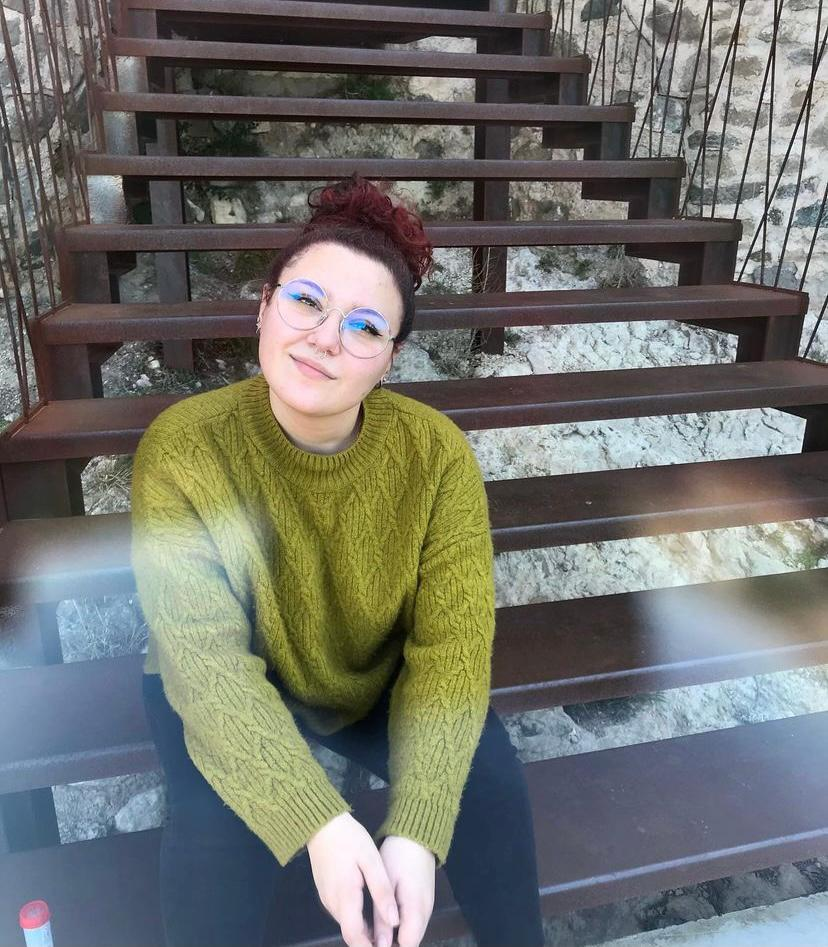
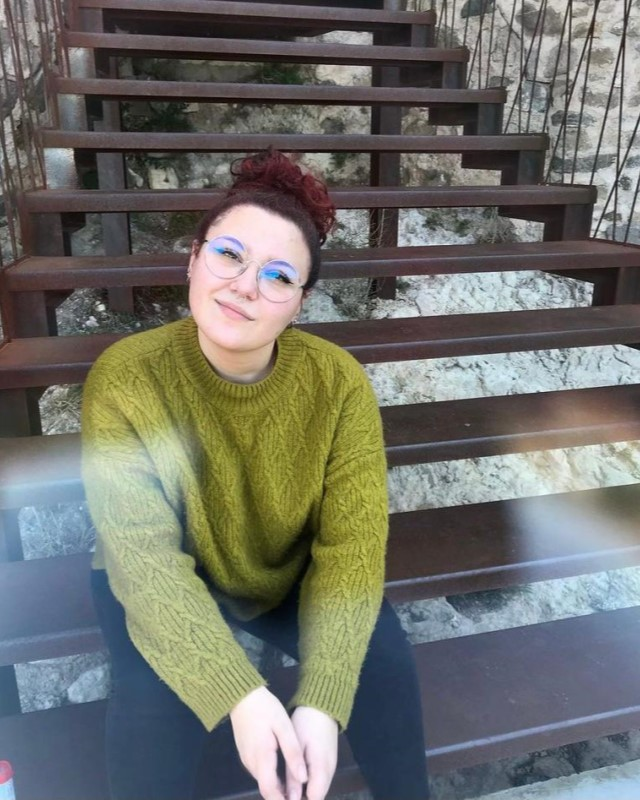
arege el tamaño de las fotos y el nombre

diff --git a/index.html b/index.html
@@ -28,7 +28,7 @@
                     <li>Alumnado Presencial
                         <ol>
                             <li><a href="./people/Maria.html">Maria El-Harrak Hartouch</a></li>
-                            <li><a href="./people/RaquelDelaPeña.html">Raquel De la Peña Ochoa</a></li>
+                            <li><a href="./people/DelaPeña Raquel.html"> De la Peña Ochoa Raquel</a></li>
                             <li><a href="./people/Santiago.html">Santiago Gómez Domenech</a></li>
                             <li>otra persona</li>
                             <br />
